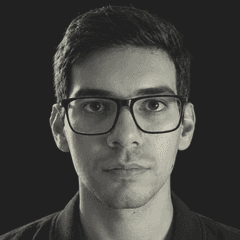
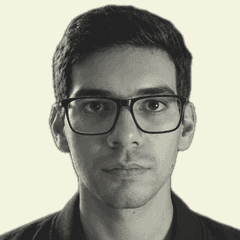
feat: foto de Juan sin fondo, cifra de 500% en una línea y entradas animadas en la landing de Venezuela
La foto de Juan se recorta con la máscara de primer plano de macOS y se estiliza como las demás. Las entradas por scroll
pasan a un componente (RevealScripts) activable por página con data-rv; Venezuela lo usa, con cifras que cuentan en los
resultados. Hero, filas, bloque remoto, FAQ y cierre entran escalonados, sin parpadeo.

diff --git a/src/scripts/reveal.ts b/src/scripts/reveal.ts
@@ -9,7 +9,7 @@
  * parte oculto por reveal.css solo mientras `html.js-reveal` existe (lo pone un script en línea del head y lo quita aquí
  * o a los 1,5 s si este módulo no llegó a ejecutarse).
  */
-import { COUNT_SELECTOR, GROUPS, HERO_SELECTOR } from './reveal-selectors';
+import { ATTR_SELECTOR, COUNT_SELECTOR, GROUPS, HERO_SELECTOR } from './reveal-selectors';
 
 const DURATION = 400;
 const STEP = 110;
@@ -78,7 +78,7 @@ function run(): void {
         if (!entry.isIntersecting) continue;
         io.unobserve(entry.target);
         const index = Number((entry.target as HTMLElement).dataset.rvI ?? 0);
-        if (entry.target.matches(COUNT_SELECTOR)) countUp(entry.target as HTMLElement, index * STEP);
+        if (entry.target.matches(`${COUNT_SELECTOR}, [data-rv='count']`)) countUp(entry.target as HTMLElement, index * STEP);
         else play(entry.target, index);
       }
     },
@@ -97,6 +97,16 @@ function run(): void {
         io.observe(el);
       });
     }
+  }
+  // Landings: elementos marcados con data-rv. El escalón es `data-rv-i` o su orden entre los hermanos marcados.
+  const marked = new Map<Element | null, Element[]>();
+  for (const el of document.querySelectorAll(ATTR_SELECTOR)) marked.set(el.parentElement, [...(marked.get(el.parentElement) ?? []), el]);
+  for (const els of marked.values()) {
+    els.forEach((el, i) => {
+      const h = el as HTMLElement;
+      h.dataset.rvI = h.dataset.rvIndex ?? String(i);
+      io.observe(el);
+    });
   }
   // Las cifras de los casos cuentan al entrar, escalonadas igual que sus tarjetas.
   document.querySelectorAll(COUNT_SELECTOR).forEach((el, i) => {

diff --git a/scripts/photos/mask-macos.swift b/scripts/photos/mask-macos.swift
@@ -1,0 +1,19 @@
+import Foundation
+import Vision
+import CoreImage
+import AppKit
+
+let args = CommandLine.arguments
+let inPath = args[1], outPath = args[2]
+guard let img = NSImage(contentsOfFile: inPath), let tiff = img.tiffRepresentation, let ci = CIImage(data: tiff) else { print("no image"); exit(1) }
+let handler = VNImageRequestHandler(ciImage: ci, options: [:])
+let req = VNGenerateForegroundInstanceMaskRequest()
+try handler.perform([req])
+guard let obs = req.results?.first else { print("no mask"); exit(2) }
+let buf = try obs.generateScaledMaskForImage(forInstances: obs.allInstances, from: handler)
+let mask = CIImage(cvPixelBuffer: buf)
+let ctx = CIContext()
+guard let cg = ctx.createCGImage(mask, from: mask.extent) else { exit(3) }
+let rep = NSBitmapImageRep(cgImage: cg)
+try rep.representation(using: .png, properties: [:])!.write(to: URL(fileURLWithPath: outPath))
+print("ok")

diff --git a/src/styles/reveal.css b/src/styles/reveal.css
@@ -16,12 +16,14 @@
   html.js-reveal .section-cta:not(.rv-done),
   html.js-reveal #agenda .agenda-copy > *:not(.rv-done),
   html.js-reveal #faq .faq-item:not(.rv-done),
-  html.js-reveal #faq > .wrap > h2:not(.rv-done) {
+  html.js-reveal #faq > .wrap > h2:not(.rv-done),
+  html.js-reveal [data-rv]:not(.rv-done) {
     opacity: 0;
   }
 
   /* Cifras que cuentan: invisibles hasta que empieza el conteo, para no mostrar el valor final antes. */
-  html.js-reveal .metric-mark:not(.rv-done) {
+  html.js-reveal .metric-mark:not(.rv-done),
+  html.js-reveal [data-rv='count']:not(.rv-done) {
     visibility: hidden;
   }
 }

diff --git a/src/scripts/reveal-selectors.ts b/src/scripts/reveal-selectors.ts
@@ -15,7 +15,10 @@ export const GROUPS: readonly string[] = [
 ];
 
 /** Todo lo que reveal.ts puede animar con la Web Animations API (opacity y transform, finito, sin iteraciones). */
-export const REVEAL_ANY = [HERO_SELECTOR, ...GROUPS].join(', ');
+/** Elementos que una landing marca a mano con `data-rv` (y `data-rv="count"` para cifras que cuentan). */
+export const ATTR_SELECTOR = '[data-rv]';
+
+export const REVEAL_ANY = [HERO_SELECTOR, ...GROUPS, ATTR_SELECTOR].join(', ');
 
 /** Cifras de los casos: cuentan de 0 a su valor al entrar (reveal.ts). */
 export const COUNT_SELECTOR = '.metric-mark';
